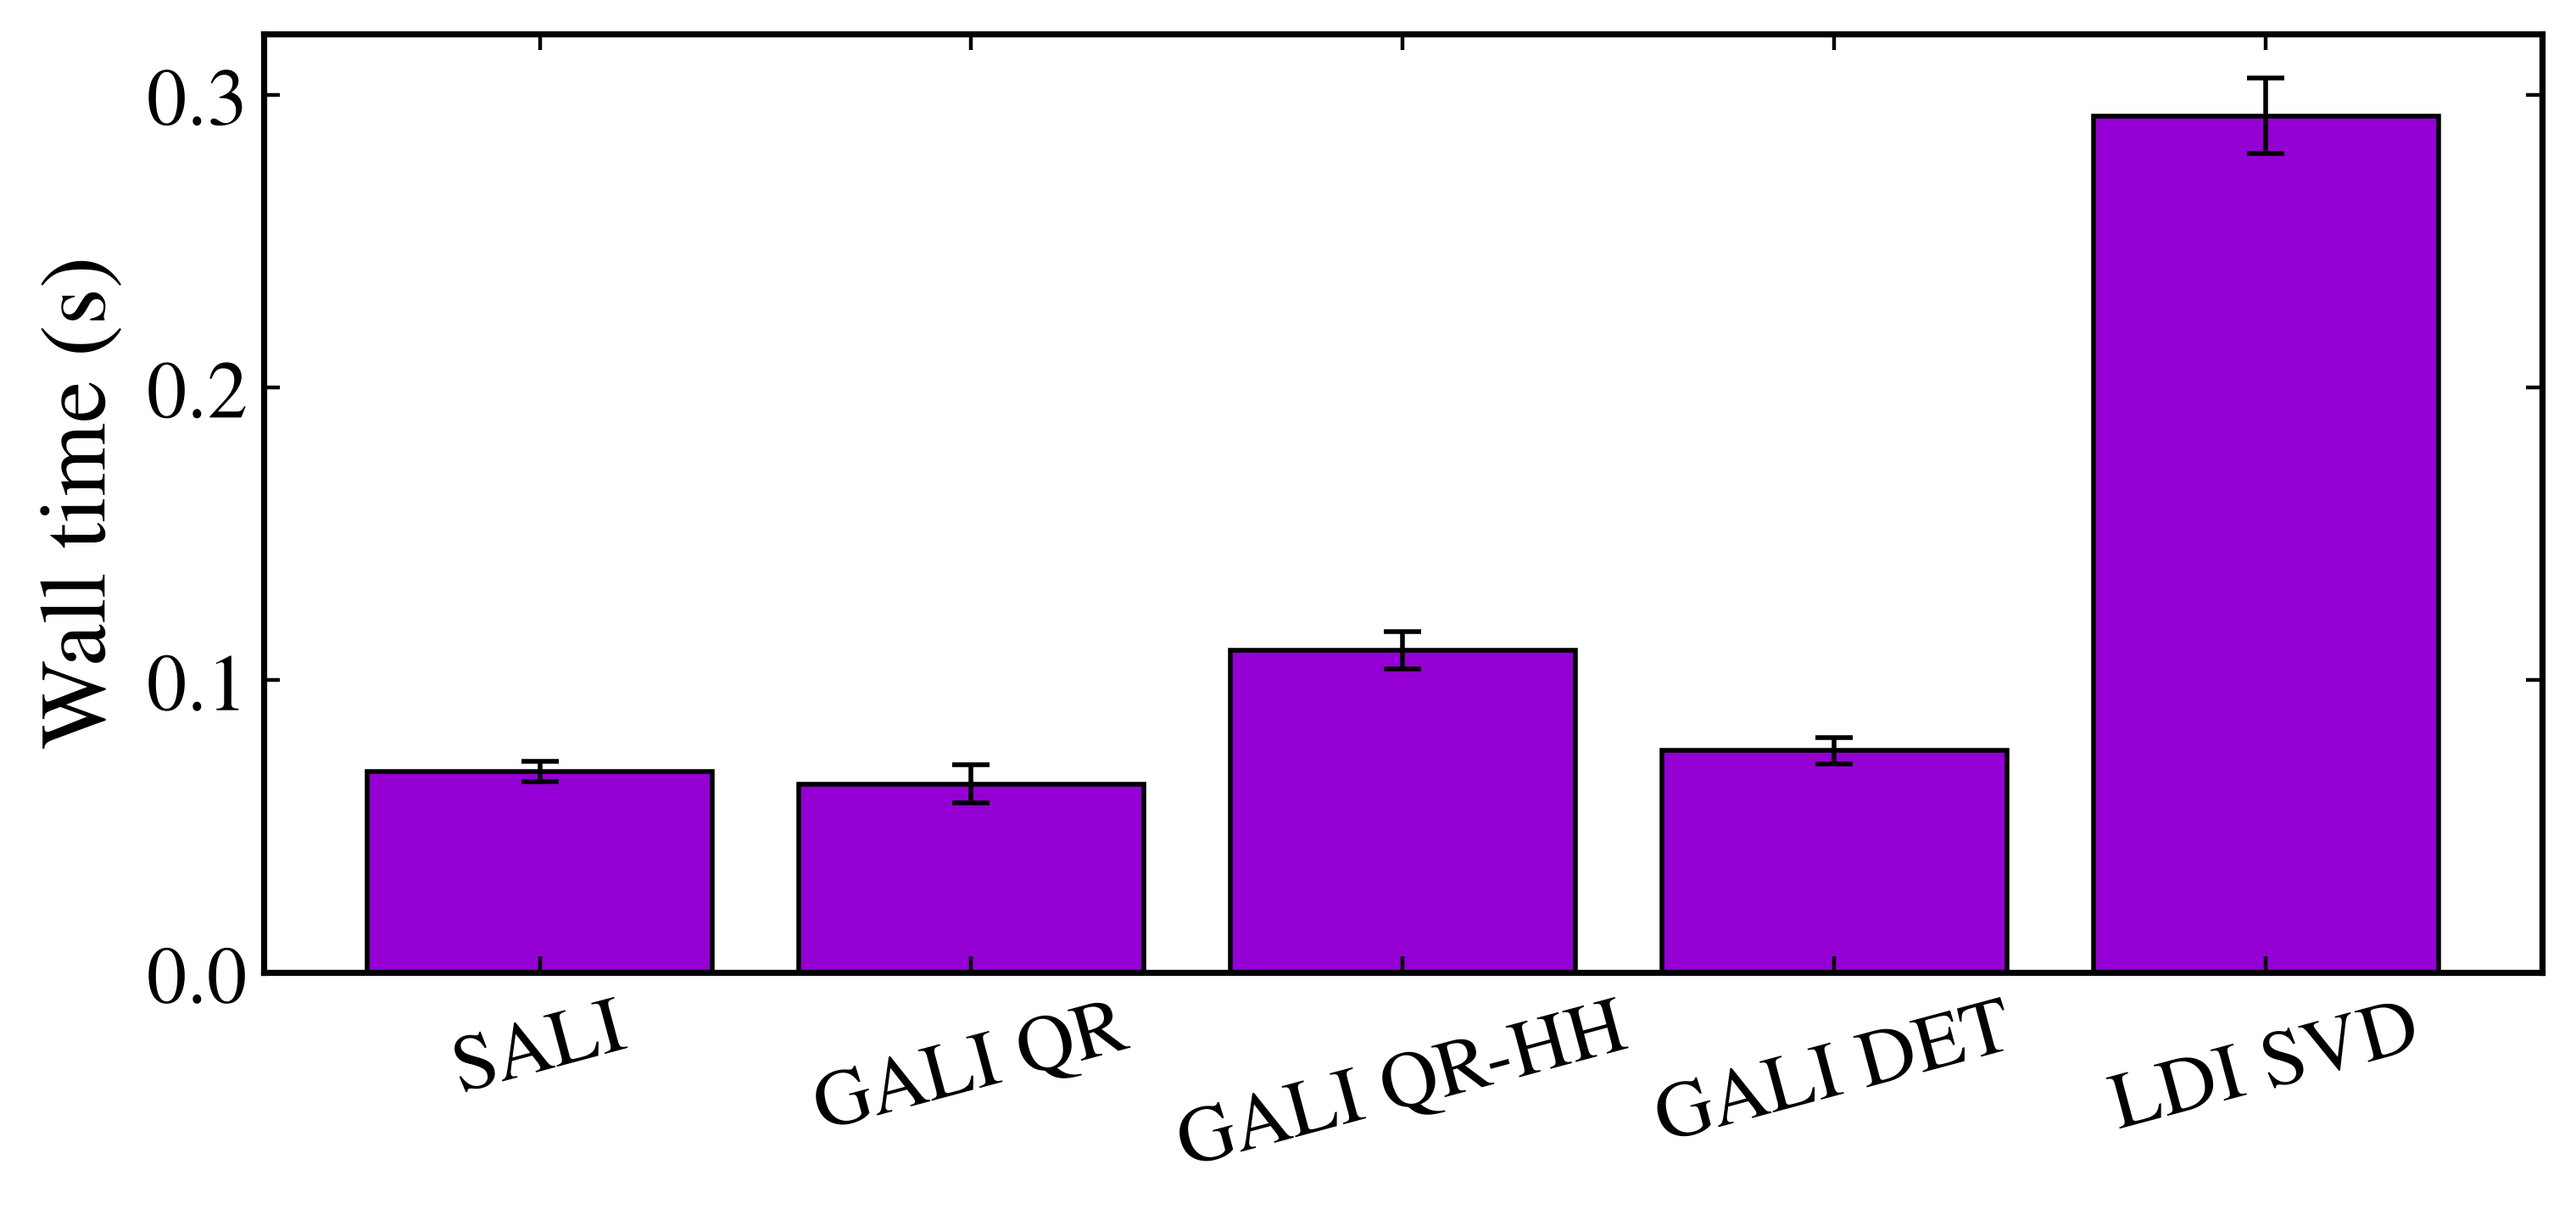
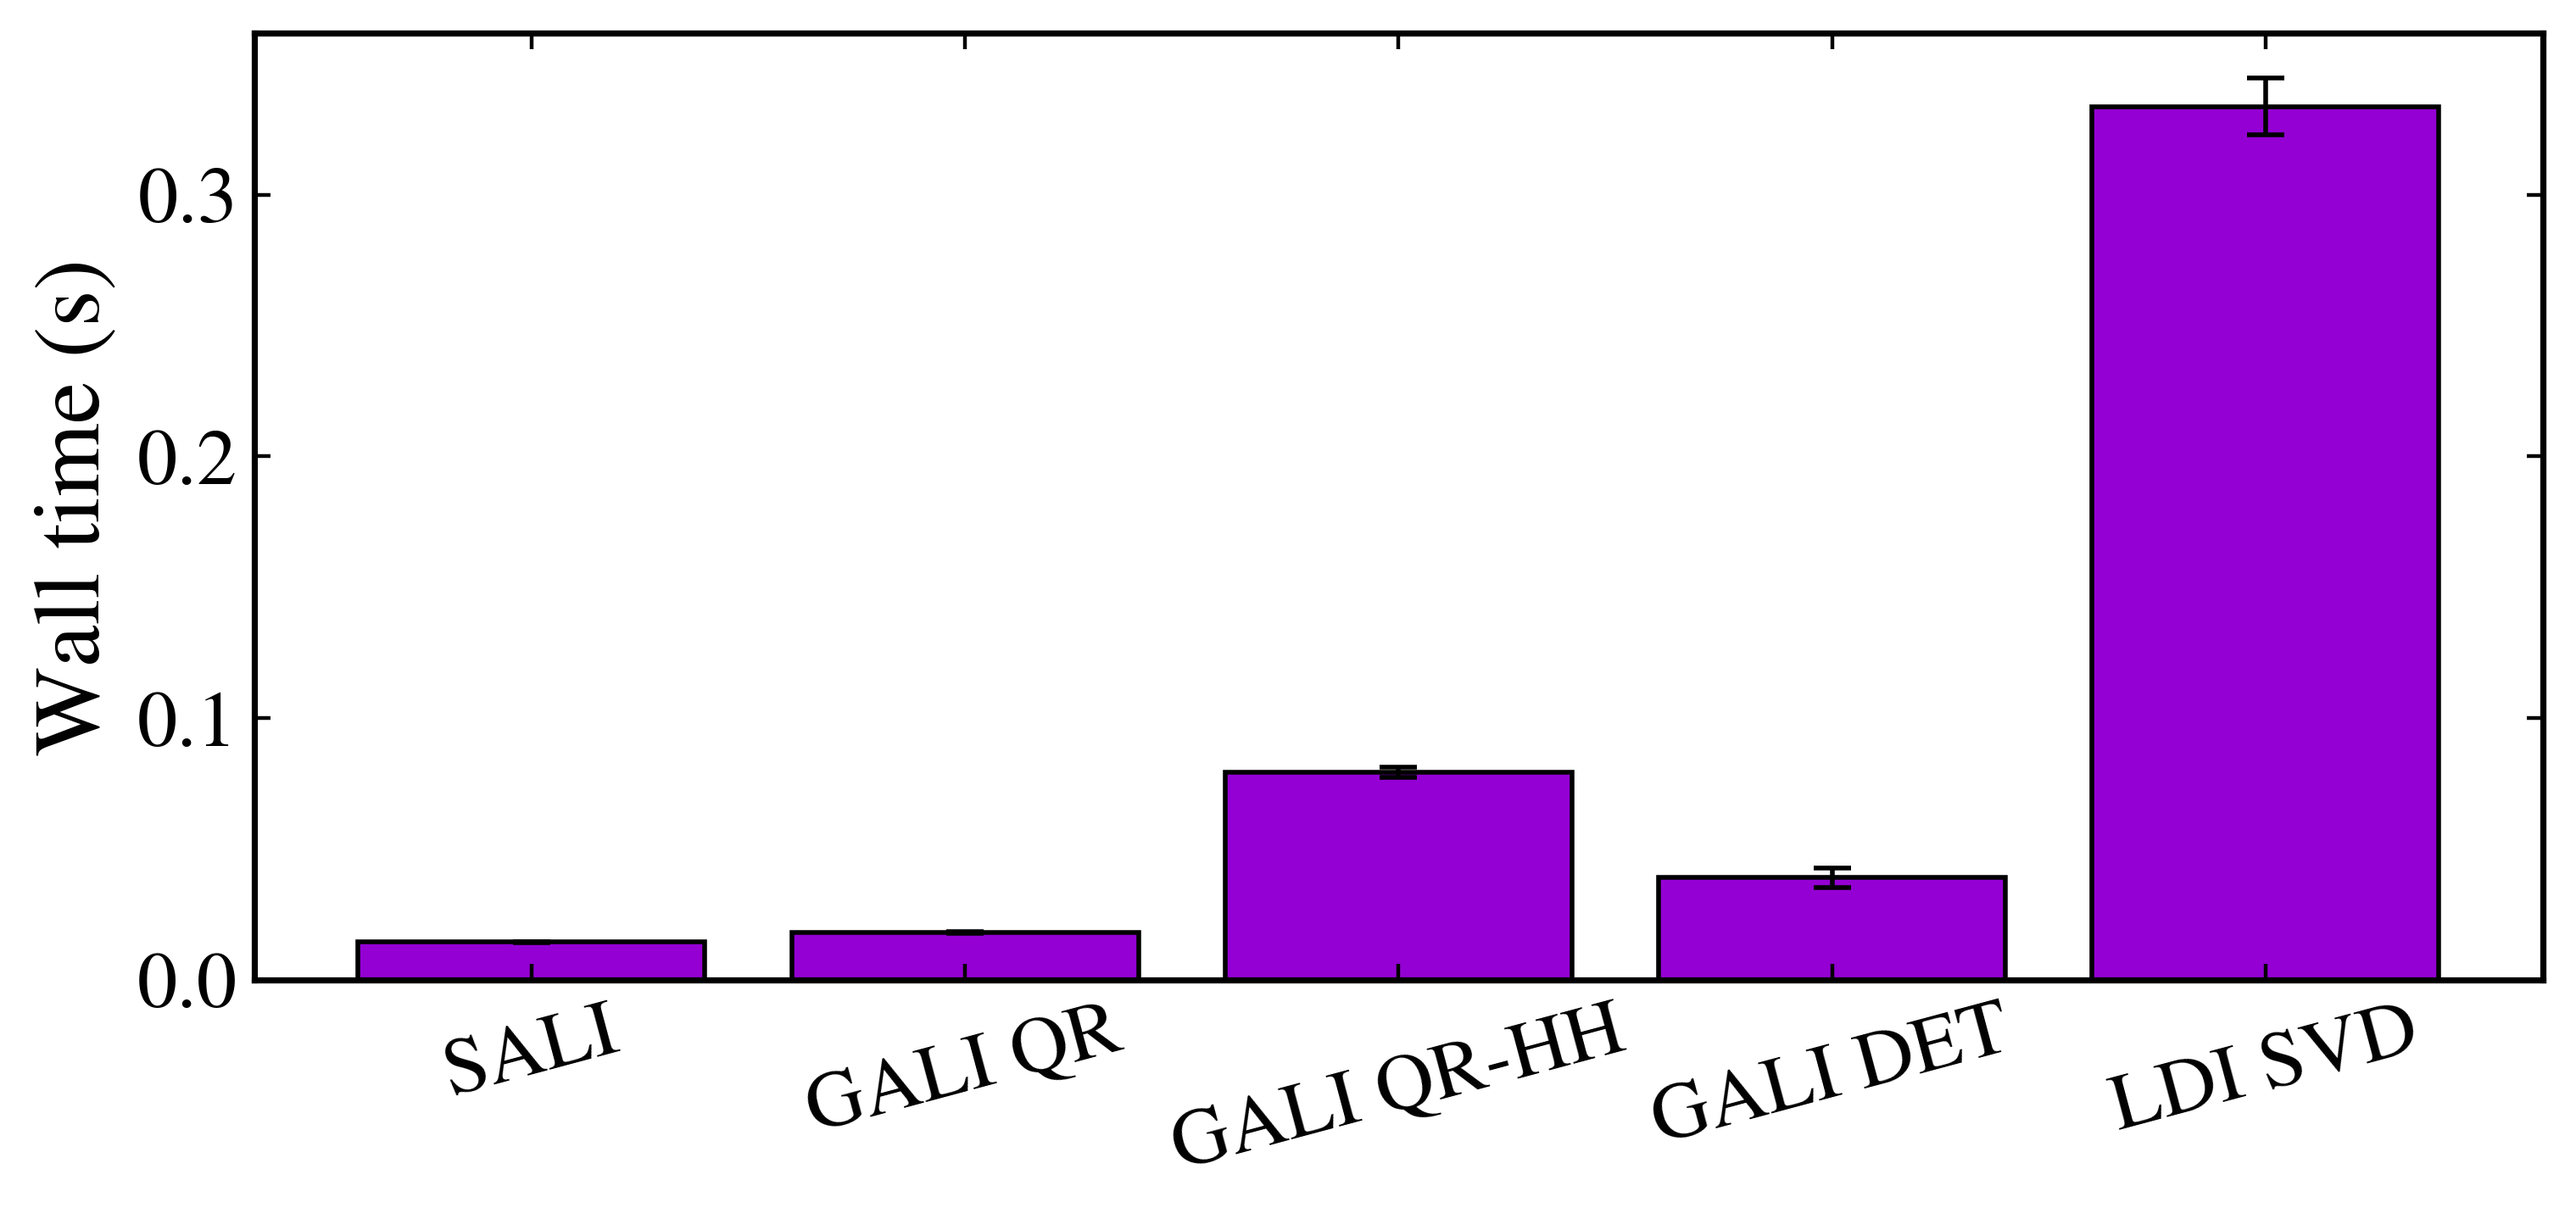
docs: update the discrete run times and the alignment indices benchmark

Changed region(s): [[0.0, 0.0306, 0.9901, 0.9485], [0.8045, 0.0612, 0.9592, 0.1224]]

diff --git a/docs/source/dds_alignment_indices.rst b/docs/source/dds_alignment_indices.rst
@@ -372,7 +372,7 @@ The most useful benchmark compares SALI, the three formulations of :math:`\mathr
     :align: center
     :width: 100%
 
-    Wall times for SALI, the three formulations of :math:`\mathrm{GALI}_2`, and SVD-based :math:`\mathrm{LDI}_2` along a regular trajectory. Bars show the mean of five fixed-workload runs and error bars show one standard deviation.
+    Wall times for SALI, the three formulations of :math:`\mathrm{GALI}_2`, and SVD-based :math:`\mathrm{LDI}_2` along a regular trajectory. Bars show the mean of one hundred fixed-workload runs and error bars show one standard deviation.
 
 All three public methods return a scalar by default and a one-dimensional array with ``return_history=True``. The ``sample_times``, ``threshold``, ``transient_time``, ``seed``, and ``return_last_state`` arguments follow the same pattern for SALI, GALI, and LDI.
 
